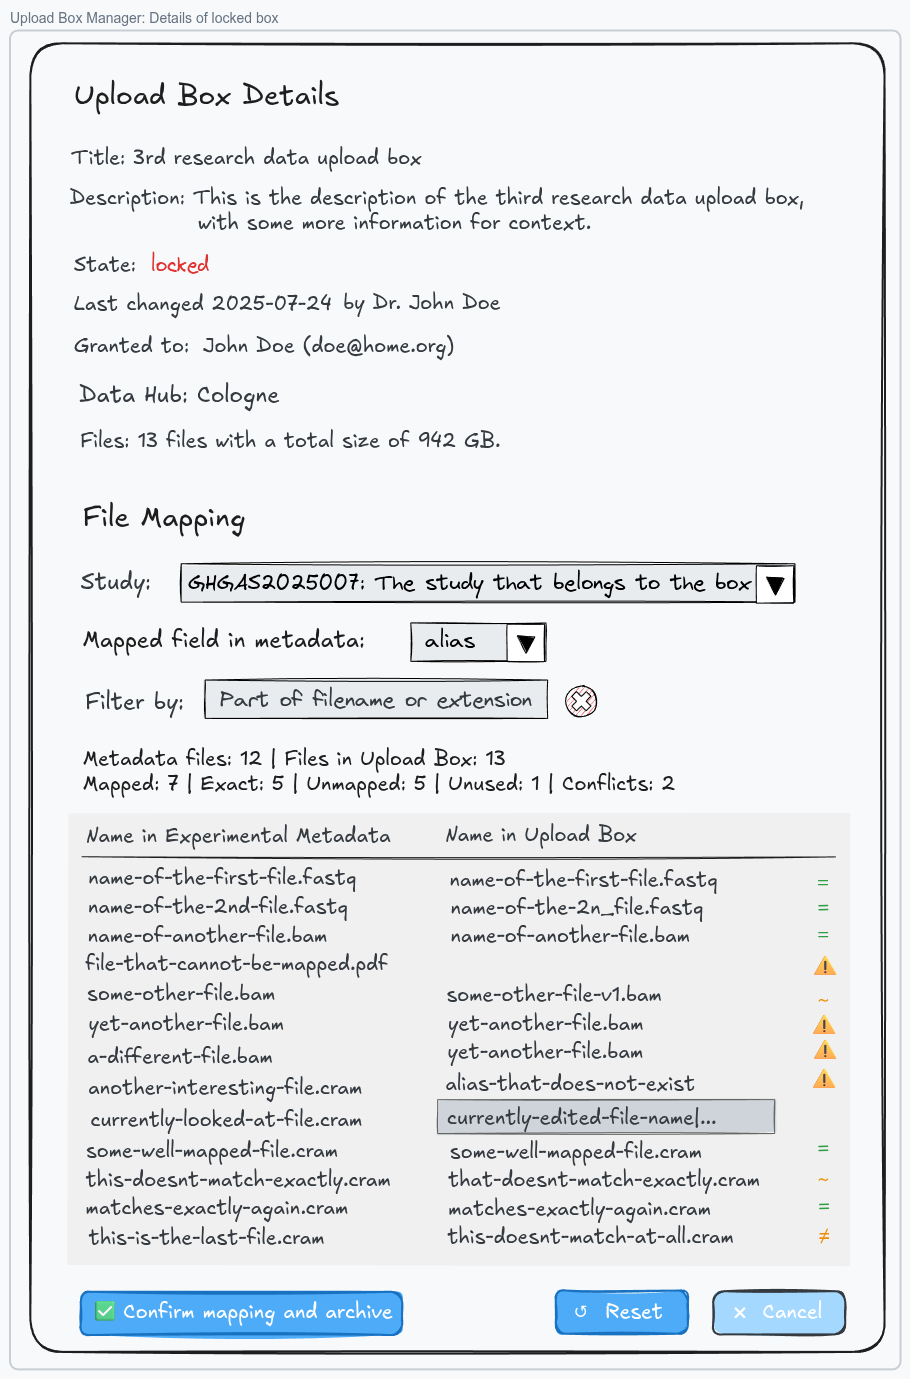
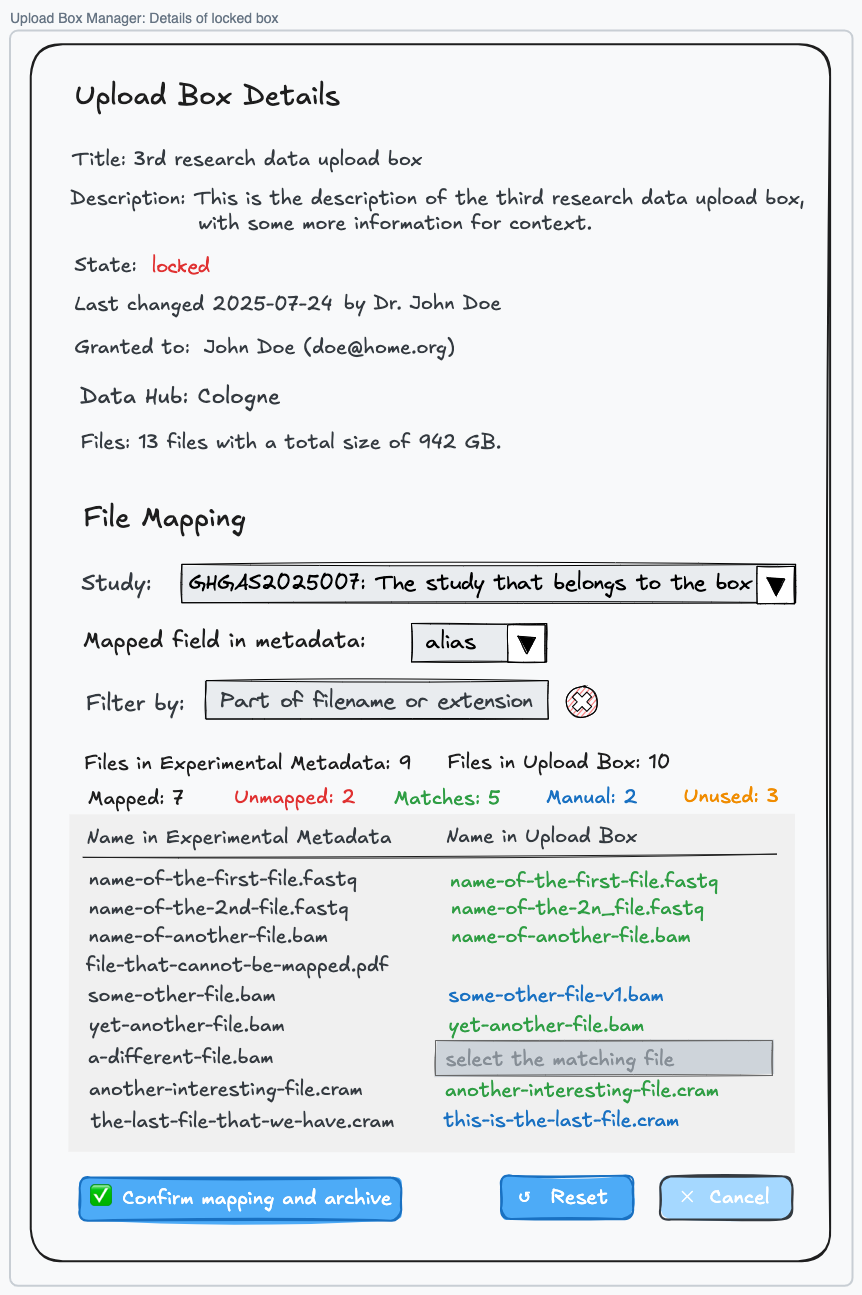
Simplify the mapping tool

Changed region(s): [[0.0, 0.0, 0.9954, 0.9884], [0.5429, 0.3398, 0.5731, 0.3707]]

diff --git a/86-archaeopteryx/technical_specification.md b/86-archaeopteryx/technical_specification.md
@@ -111,25 +111,21 @@ Step 3: After "Generate an access token for upload" has been clicked, the upload
 
 Notes:
 
-Initially, the files will be auto-mapped using a simple string similarity comparison. This will also happen when the study or mapped field is changed, or when the "Reset" button is clicked. The mapped field ("name" or "alias") will be auto-selected when the study is changed to achieve the best mapping result.
+Initially, metadata file names with a matching file name in the upload box are mapped automatically. Only exact matches count, and casing may be only different if there is only one case insensitive match. All such exact matches are shown in green color on the right side.
 
 The "Filter by" field allows filtering by filename. It shall be possible to enter just a part of the file name or just an extension, like ".fastq". The filter should be case insensitive and match both metadata names and uploaded file names. If a filter is set, a highly visible button to remove the filter should appear.
 
-In the last column, warnings signs are shown for files that are unmapped or mapped to more than one file. When hovering over this sign a detailed explanation is shown as a tooltip (particularly, the names of the other files in case of conflicts).
+The table shall be sortable by clicking on one of the columns in the header row, including the last column. This allows sorting the names so that unmapped files (which have not file name in the right column) appear at the top. The default sorting should be by extension first, then by filename.
 
-In the last column, warning signs are shown for files that are unmapped or mapped to more than one file. When hovering over this sign, a detailed explanation is shown as a tooltip (particularly the names of the other files in case of conflicts).
+Above the table, the number of mapped and unmapped files from metadata, the number of exact matches, manually established links and unused (unmapped) files in the outbox shall be shown unless these numbers are zero.
 
-Mapped files should show a symbol indicating how closely the file names match.
+Below the table there should also be a paginator (same as for most other tables).
 
-The table shall be sortable by clicking on one of the columns in the header row, including the last column. This allows sorting the names so that problems appear at the top of the table.
-
-Below the table there should be also a paginator (same as for most other tables).
-
-When clicking on a line in the table with file names, an inline editor should appear for the name in the upload box. This editor should provide autocompletion using the same similarity search as used for the automatic mapping.
+When clicking on a line in the table, an inline editor should appear where the user can enter a file name in the upload box that shall be mapped. Also, a selection box should pop up below the inline editor that shows all unmapped files and narrows down as the user types in characters. Exact matches should appear at the top of the selection list, following by other names ordered in the same way as the right column. When clicking outside the field or the selection box, or when pressing "Enter", the selected file name shall be accepted if it exists in the upload box and is not yet mapped elsewhere. Otherwise, the entry in the mapped columns shall stay empty. This also allows removing an already established mapping.
 
 When clicking "Reset" or "Cancel" and manual mappings have already been made, the user needs to confirm the action.
 
-When clicking "Confirm mapping and archive" a confirmation dialog should pop up as well, explaining that the action is irrevocable and a checkbox must be checked off to proceed.
+When clicking "Confirm mapping and archive" a confirmation dialog should pop up as well, explaining that the action is irrevocable and a checkbox must be checked off to proceed. If not all files have been mapped, a dialog should pop up showing the number of unmapped files and the name of the first unmapped file and telling the user that all files need to be mapped.
 
 ## API Endpoints used by the frontend
 
